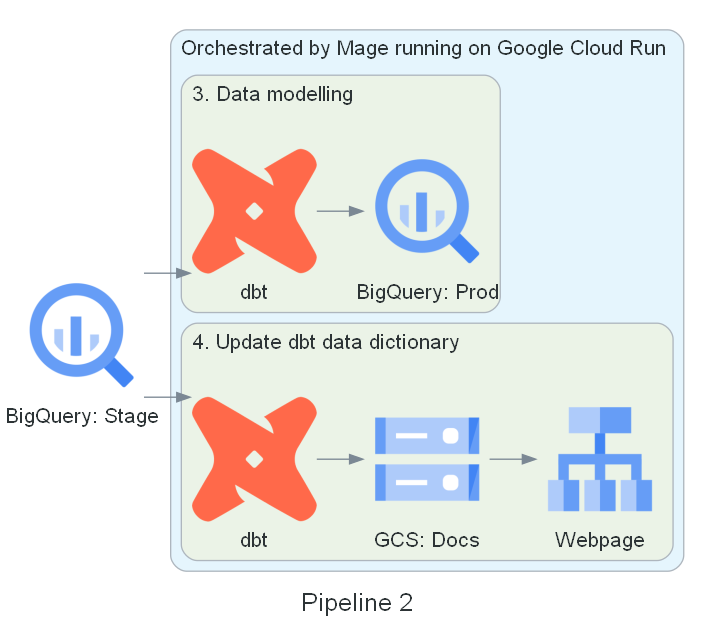
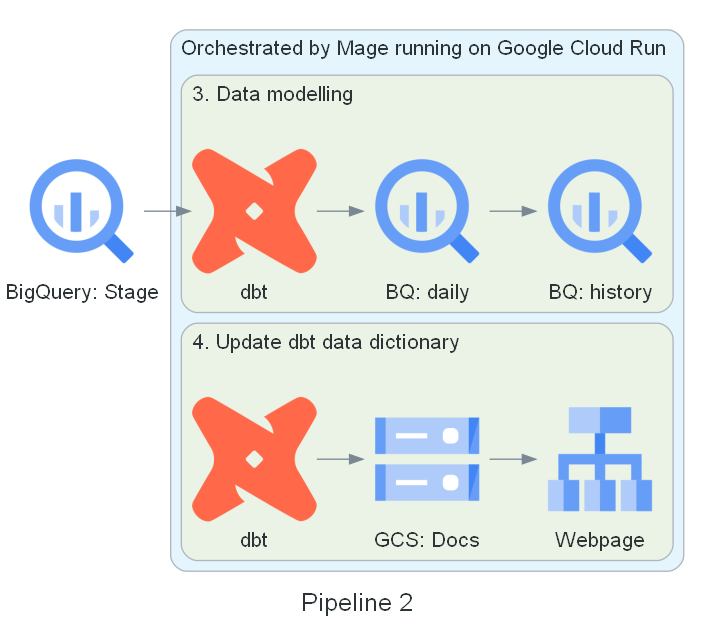
added documentation images and code to generate documentation images

diff --git a/documentation/diagram.py b/documentation/diagram.py
@@ -63,11 +63,52 @@ with Diagram("Pipeline 2", show=False, node_attr=node_attr, graph_attr=graph_att
             lb = LoadBalancing("Webpage")
         with Cluster("3. Data modelling", graph_attr=cluster_graph_attr):
             dbt = Custom("dbt", "./resources/dbt.png")
-            bigquery_prod = Bigquery("BigQuery: Prod")
+            bigquery_prod_daily = Bigquery("BQ: daily")
+            bigquery_prod_hist = Bigquery("BQ: history")
 
-    bigquery_stage >> [dbt, dbt_docs]
-    dbt >> bigquery_prod
+    bigquery_stage >> dbt >> bigquery_prod_daily >> bigquery_prod_hist
     dbt_docs >> docs_bucket >> lb
+
+with Diagram(
+    "BoardGameGeek Pipeline",
+    show=False,
+    node_attr=node_attr,
+    graph_attr=graph_attr,
+    filename="Pipeline",
+):
+    bgg = Custom("API", "./resources/bgg.png")
+
+    with Cluster(
+        "Orchestrated by Mage running on Google Cloud Run",
+        graph_attr=cluster_graph_attr,
+    ):
+        with Cluster("1. API calls", graph_attr=cluster_graph_attr):
+            api_call = Python("Python")
+            filestore = Filestore("Filestore")
+            raw_bucket = GCS("GCS: Raw")
+        with Cluster("2. Parse XML", graph_attr=cluster_graph_attr):
+            parse_xml = Python("Python")
+            stage_bucket = GCS("GCS: Stage")
+            bigquery_stage = Bigquery("BigQuery: Stage")
+        with Cluster("3. Data modelling", graph_attr=cluster_graph_attr):
+            dbt = Custom("dbt", "./resources/dbt.png")
+            bigquery_prod_daily = Bigquery("BQ: daily")
+            bigquery_prod_hist = Bigquery("BQ: history")
+        with Cluster("4. Update dbt data dictionary", graph_attr=cluster_graph_attr):
+            dbt_docs = Custom("dbt", "./resources/dbt.png")
+            docs_bucket = GCS("GCS: Docs")
+            lb = LoadBalancing("Webpage")
+
+    bgg >> api_call >> [filestore, raw_bucket]
+    filestore >> parse_xml >> [bigquery_stage, stage_bucket]
+    bigquery_stage >> [dbt]
+    dbt >> bigquery_prod_daily >> bigquery_prod_hist
+    dbt_docs >> docs_bucket >>  lb
+
+    # Positioning hack
+    invisible_edge = Edge(style="invis")
+    raw_bucket >> invisible_edge >> stage_bucket
+    stage_bucket >> invisible_edge >> dbt_docs
 
 with Diagram(
     "Infrastructure",
